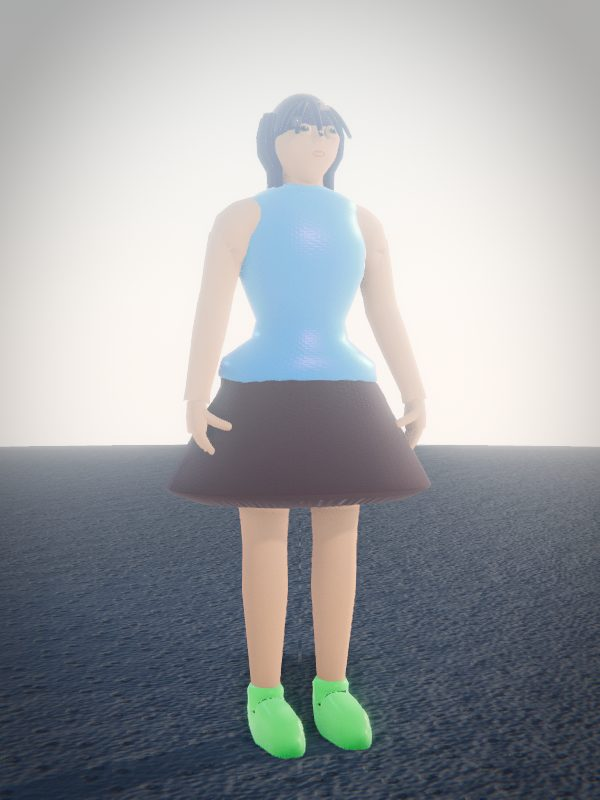
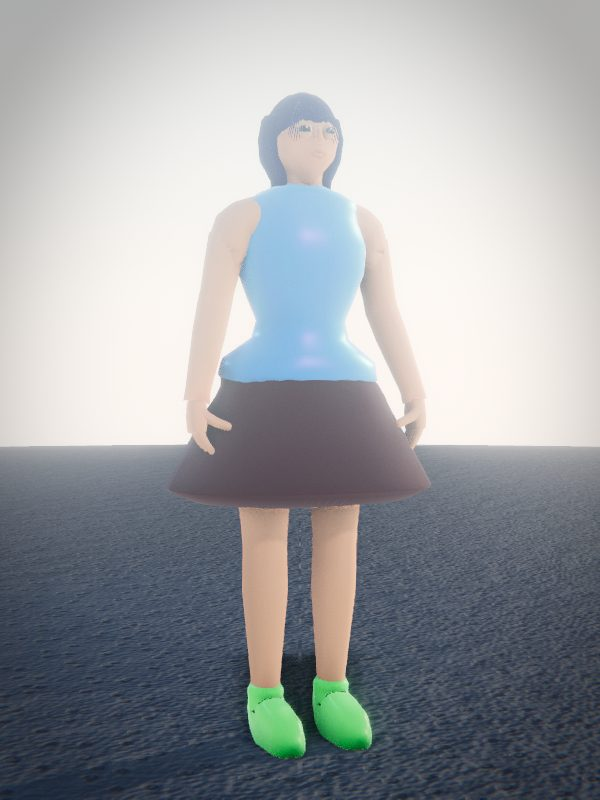
Visual Target: as capturas de close saem da ferramenta, e o carimbo sempre entra
Você notou que `hoje-close-rosto.jpg` continuava com o mesmo blob depois do
sprint do rosto. Estava certo, e a causa tem duas partes — as duas de processo,
nenhuma de render.

**1. Aquelas três capturas eram feitas à mão**, recortadas de uma folha de
contato do `face-sheet`. Tudo o que sai de ferramenta se regera; o que sai de
print envelhece calado. Agora o close entra no `visual-target-shots.mjs`, no
mesmo rig do retrato que já estava lá (câmera e luz do laboratório, `exp=0.5`),
com o MESMO personagem nos três giros — frontal, três quartos e o perfil, que
não existia. Comparar três ângulos de pessoas diferentes não responde "este
rosto é agradável?".

**2. O carimbo de build era pulado em regeração parcial.** `if (done.length &&
!ONLY)`: quem regerava só o rosto não carimbava, e a página ficava anunciando
um build enquanto mostrava imagens de outro — precisamente o defeito que o
carimbo existe para impedir. Agora carimba sempre, e diz quando foi parcial.

As legendas das três também foram reescritas: descreviam o sprint do cabelo e
teriam continuado descrevendo, ao lado de imagens de outro rosto. Uma coluna
"hoje" desatualizada é pior do que uma coluna vazia — ela convence a equipe a
consertar o que já está consertado.

Nenhuma geometria, material ou animação foi tocada neste commit.

Claude-Session: https://claude.ai/code/session_01KaJi7EAzTuCHHGBrpKy4oM

Changed region(s): [[0.42, 0.8125, 0.63, 0.9688], [0.42, 0.125, 0.6, 0.25], [0.51, 0.625, 0.57, 0.6562]]

diff --git a/packages/client/public/visual-target/index.html b/packages/client/public/visual-target/index.html
@@ -45,7 +45,10 @@
   .lead { color: var(--text-2); margin: 0 0 22px; max-width: 70ch; }
 
   .pair { display: grid; grid-template-columns: 1fr 1fr; gap: 16px; }
-  @media (max-width: 760px) { .pair { grid-template-columns: 1fr; } }
+  /* Três vistas do mesmo rosto lado a lado: frontal, três quartos e perfil só
+     respondem juntas a pergunta "isto é agradável?". */
+  .pair--trio { grid-template-columns: repeat(3, 1fr); }
+  @media (max-width: 760px) { .pair, .pair--trio { grid-template-columns: 1fr; } }
 
   figure { margin: 0; background: var(--surface); border: 1px solid var(--line); border-radius: var(--r); overflow: hidden; }
   figure img { display: block; width: 100%; height: auto; background: #0d0f16; }
@@ -378,24 +381,38 @@
         dançar sorri, presente surpreende, perder um PK concentra.</figcaption>
     </figure>
   </div>
-  <div class="pair" style="margin-top:16px">
+  <div class="pair pair--trio" style="margin-top:16px">
     <figure>
       <img src="hoje-close-rosto.jpg" alt="Close frontal do avatar">
       <figcaption><b><span class="tag tag--hoje">Hoje, em close</span></b>
-        O cenário melhorou e o avatar passou a ser o que derrubava a percepção.
-        Seis coisas mudaram: cabelo em mechas finas e em camadas no lugar de
-        salsichas sobre uma touca, zoneamento de cor na pele (maçã do rosto e
-        orelha quentes, órbita e vinco do queixo escuros), lábio quase da cor
-        da pele, oclusão de contato mais forte, trama de tecido três vezes mais
-        fina e sobrancelha com espessura de verdade.</figcaption>
+        O olho foi de 0,132 para 0,150 raio de cabeça e ganhou íris grande,
+        pupila e DOIS brilhos — o da luz principal e o do rebote do chão, que é
+        o par que faz um olho parecer úmido. Sumiu o anel de esclera que
+        contornava a abertura: as pálpebras cobriam só até 1,50 rad de azimute e
+        o globo é uma esfera inteira, então sobrava um arco cinza em volta — a
+        leitura de olho colado no rosto. A boca existe no neutro (meia-largura
+        de 0,18 para 0,235, volume quase o dobro) e o nariz encurtou nas duas
+        pontas.</figcaption>
     </figure>
     <figure>
       <img src="hoje-close-3quartos.jpg" alt="Close em três quartos">
       <figcaption><b><span class="tag tag--hoje">Três quartos</span></b>
-        A borda da base deixou de ser uma linha cortada a faca: fiapos curtos
-        nascem NA linha do cabelo e a quebram. Mechas saindo do redemoinho dão
-        fio ao topo, que antes era a única superfície do penteado sem nenhum.
-      </figcaption>
+        O crânio afinou (0,69 → 0,655 de largura), a testa ganhou um plano no
+        lugar da calota de esfera, o queixo projeta mais e AFINA — um queixo tão
+        largo quanto a mandíbula é uma pá — e o ângulo da mandíbula ficou
+        legível. A ponta da sobrancelha parou de sair da silhueta: de perfil ela
+        virava um gancho preto na frente da têmpora.</figcaption>
+    </figure>
+    <figure>
+      <img src="hoje-close-perfil.jpg" alt="Close de perfil">
+      <figcaption><b><span class="tag tag--hoje">Perfil</span></b>
+        A causa do “capacete” não era mecha nenhuma: era a LINHA DO CABELO. Nos
+        nove estilos o limiar frontal ficava entre 0,24 e 0,34, o que punha a
+        touca cobrindo a testa inteira, até a altura da sobrancelha. Subiu para
+        ~0,40 e ganhou bico central, entradas nas têmporas e irregularidade —
+        uma linha que só depende da altura recorta um paralelo da esfera, ou
+        seja, uma reta atravessando a testa de orelha a orelha. E mecha virou
+        FITA: tubo de 6 mm lê como arame.</figcaption>
     </figure>
   </div>
   <ul class="gap" style="margin-top:10px">
@@ -568,7 +585,7 @@
     pior do que nenhuma: ela convence a equipe a consertar o que já está
     consertado.
     <br>
-    <span id="hoje-stamp">Capturas <b>Hoje</b>: build <code>a993aac</code>, 2026-09-01.</span>
+    <span id="hoje-stamp">Capturas <b>Hoje</b>: build <code>5aeafd2</code>, 2026-09-01 (parcial: close).</span>
     <br>
     As regras completas estão em <code>docs/VISUAL_TARGET.md</code> e
     <code>docs/VISUAL_RUBRIC.md</code>.
